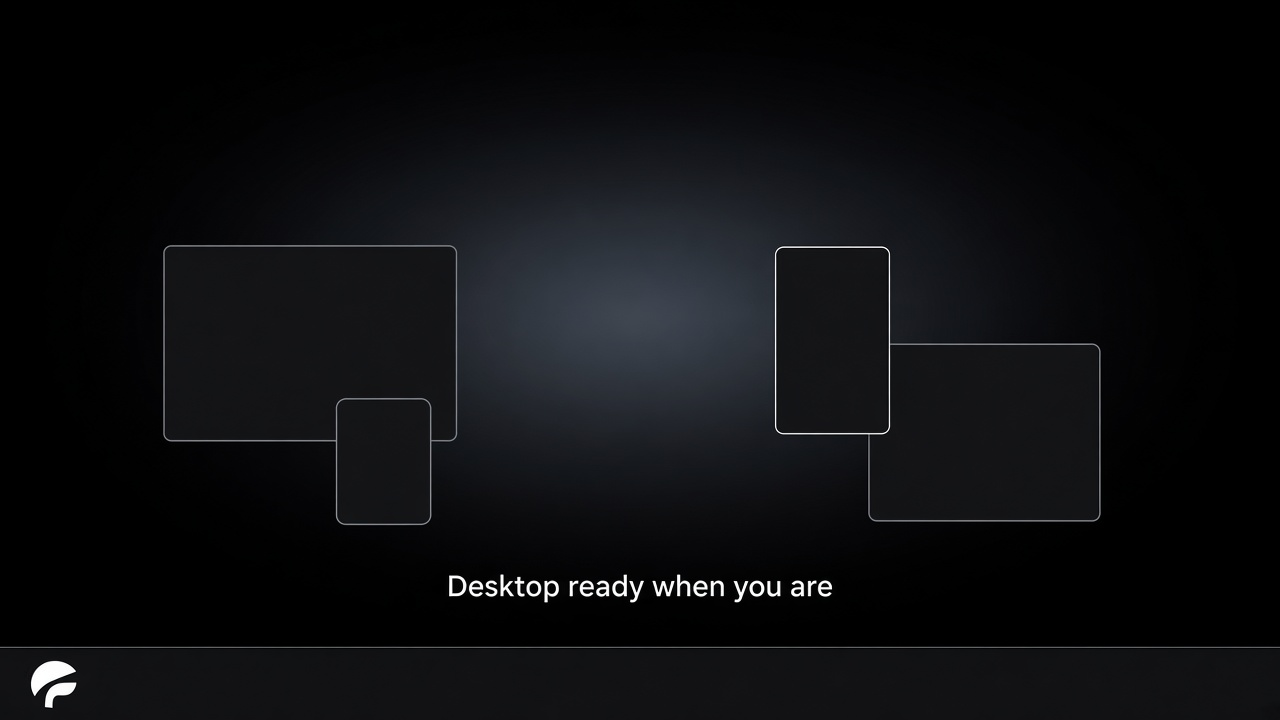
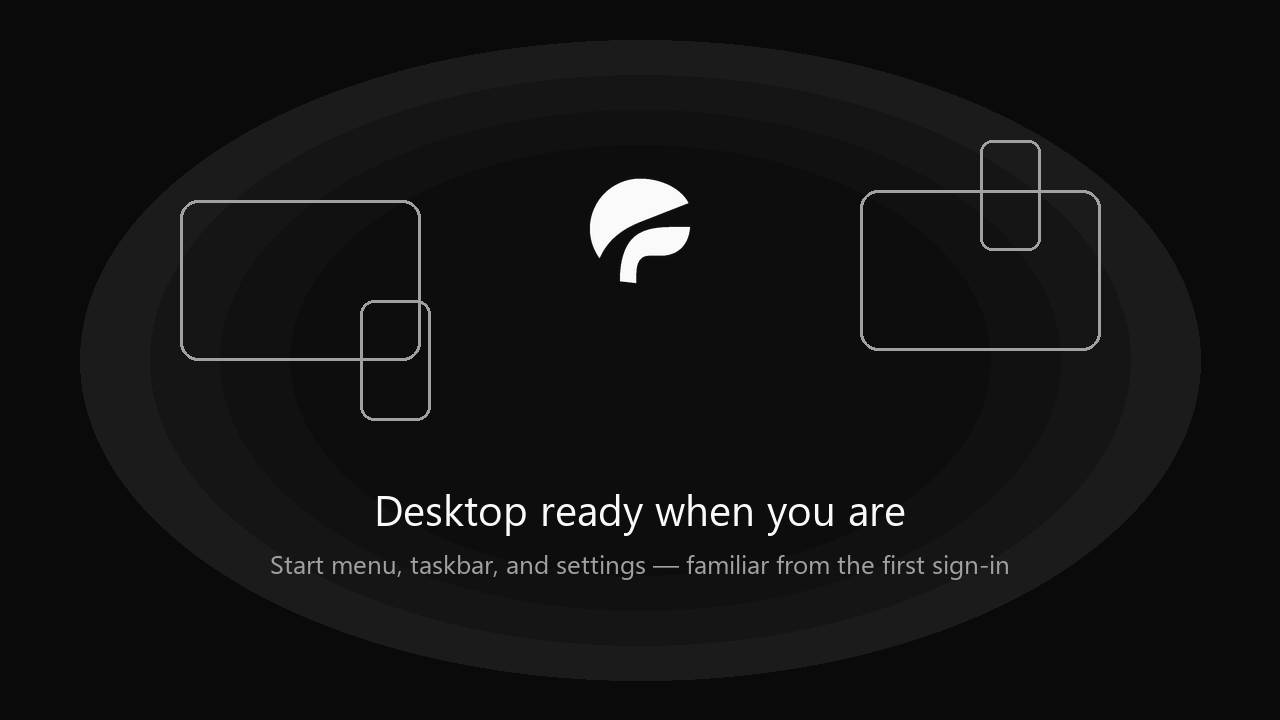
Ship fosos-theme 0.7.4 and installer 1.0.5 splash and slideshow fixes.
Use simpledrm for a real Plymouth logo splash with shutdown titles, and a plain Calamares image slideshow so Install is never blank.

diff --git a/packages/fosos-installer/usr/share/calamares/branding/fosos/show.qml b/packages/fosos-installer/usr/share/calamares/branding/fosos/show.qml
@@ -1,5 +1,5 @@
-import QtQuick 2.0;
-import calamares.slideshow 1.0;
+import QtQuick
+import calamares.slideshow 1.0
 
 Presentation
 {
@@ -7,52 +7,74 @@ Presentation
 
     function onActivate() {
         presentation.currentSlide = 0;
+        advanceTimer.restart();
     }
 
     function onLeave() {
+        advanceTimer.stop();
     }
 
     Timer {
         id: advanceTimer
-        interval: 8000
+        interval: 7000
         running: presentation.activatedInCalamares
         repeat: true
         onTriggered: presentation.goToNextSlide()
     }
 
     Slide {
+        Rectangle {
+            anchors.fill: parent
+            color: "#0a0a0a"
+        }
         Image {
             anchors.fill: parent
             source: "slide1.png"
-            fillMode: Image.PreserveAspectCrop
-            asynchronous: true
+            fillMode: Image.PreserveAspectFit
+            asynchronous: false
+            smooth: true
         }
     }
 
     Slide {
+        Rectangle {
+            anchors.fill: parent
+            color: "#0a0a0a"
+        }
         Image {
             anchors.fill: parent
             source: "slide2.png"
-            fillMode: Image.PreserveAspectCrop
-            asynchronous: true
+            fillMode: Image.PreserveAspectFit
+            asynchronous: false
+            smooth: true
         }
     }
 
     Slide {
+        Rectangle {
+            anchors.fill: parent
+            color: "#0a0a0a"
+        }
         Image {
             anchors.fill: parent
             source: "slide3.png"
-            fillMode: Image.PreserveAspectCrop
-            asynchronous: true
+            fillMode: Image.PreserveAspectFit
+            asynchronous: false
+            smooth: true
         }
     }
 
     Slide {
+        Rectangle {
+            anchors.fill: parent
+            color: "#0a0a0a"
+        }
         Image {
             anchors.fill: parent
             source: "slide4.png"
-            fillMode: Image.PreserveAspectCrop
-            asynchronous: true
+            fillMode: Image.PreserveAspectFit
+            asynchronous: false
+            smooth: true
         }
     }
 }

diff --git a/scripts/_gen_calamares_slides.py b/scripts/_gen_calamares_slides.py
@@ -1,0 +1,141 @@
+#!/usr/bin/env python3
+"""Generate FosOS Calamares branding slides and welcome logo."""
+
+from __future__ import annotations
+
+import sys
+from pathlib import Path
+
+try:
+    from PIL import Image, ImageDraw, ImageFont
+except ImportError:
+    print("requires Pillow", file=sys.stderr)
+    sys.exit(1)
+
+ROOT = Path(__file__).resolve().parents[1]
+OUT = ROOT / "packages/fosos-installer/usr/share/calamares/branding/fosos"
+MARK = ROOT / "packages/fosos-theme/usr/share/fosos/logo/fosos-dawn-aperture-512.png"
+BG = (10, 10, 10)
+FG = (250, 250, 250)
+MUTED = (161, 161, 161)
+W, H = 1280, 720
+
+
+def _font(size: int) -> ImageFont.ImageFont:
+    for name in (
+        "C:/Windows/Fonts/segoeui.ttf",
+        "C:/Windows/Fonts/arial.ttf",
+        "/usr/share/fonts/truetype/liberation/LiberationSans-Regular.ttf",
+        "/usr/share/fonts/truetype/dejavu/DejaVuSans.ttf",
+    ):
+        path = Path(name)
+        if path.is_file():
+            return ImageFont.truetype(str(path), size=size)
+    return ImageFont.load_default()
+
+
+def _mark(size: int) -> Image.Image:
+    src = Image.open(MARK).convert("RGBA")
+    pixels = src.load()
+    for y in range(src.height):
+        for x in range(src.width):
+            r, g, b, a = pixels[x, y]
+            lum = (r + g + b) // 3
+            if lum < 40:
+                pixels[x, y] = (0, 0, 0, 0)
+            else:
+                pixels[x, y] = (250, 250, 250, max(lum, a))
+    return src.resize((size, size), Image.Resampling.LANCZOS)
+
+
+def _base() -> Image.Image:
+    img = Image.new("RGB", (W, H), BG)
+    draw = ImageDraw.Draw(img)
+    # Soft centre glow
+    glow = Image.new("RGBA", (W, H), (0, 0, 0, 0))
+    gd = ImageDraw.Draw(glow)
+    for i, alpha in enumerate((18, 12, 7, 3)):
+        pad = 80 + i * 70
+        gd.ellipse((pad, pad // 2, W - pad, H - pad // 2), fill=(250, 250, 250, alpha))
+    img = Image.alpha_composite(img.convert("RGBA"), glow).convert("RGB")
+    return img
+
+
+def _save_slide(name: str, title: str, subtitle: str, doodle: str) -> None:
+    img = _base()
+    draw = ImageDraw.Draw(img)
+    mark = _mark(160)
+    mx = (W - mark.width) // 2
+    my = 150
+    img.paste(mark, (mx, my), mark)
+
+    # Simple doodle accents
+    if doodle == "devices":
+        draw.rounded_rectangle((180, 200, 420, 360), radius=18, outline=MUTED, width=3)
+        draw.rounded_rectangle((360, 300, 430, 420), radius=14, outline=MUTED, width=3)
+        draw.rounded_rectangle((860, 190, 1100, 350), radius=18, outline=MUTED, width=3)
+        draw.rounded_rectangle((980, 140, 1040, 250), radius=12, outline=MUTED, width=3)
+    elif doodle == "browser":
+        draw.rounded_rectangle((390, 120, 890, 420), radius=16, outline=MUTED, width=3)
+        draw.ellipse((410, 140, 426, 156), outline=MUTED, width=2)
+        draw.ellipse((434, 140, 450, 156), outline=MUTED, width=2)
+        draw.ellipse((458, 140, 474, 156), outline=MUTED, width=2)
+        draw.rounded_rectangle((490, 136, 820, 160), radius=8, outline=MUTED, width=2)
+    elif doodle == "keys":
+        draw.rounded_rectangle((470, 210, 810, 300), radius=12, outline=MUTED, width=3)
+        draw.ellipse((500, 330, 560, 390), outline=MUTED, width=3)
+        draw.line((560, 360, 760, 360), fill=MUTED, width=3)
+
+    title_font = _font(42)
+    sub_font = _font(26)
+    tw = draw.textlength(title, font=title_font)
+    draw.text(((W - tw) / 2, 480), title, fill=FG, font=title_font)
+    sw = draw.textlength(subtitle, font=sub_font)
+    draw.text(((W - sw) / 2, 545), subtitle, fill=MUTED, font=sub_font)
+    img.save(OUT / name, optimize=True)
+
+
+def _welcome() -> None:
+    # Sidebar / product logo: mark on dark tile (not full wallpaper).
+    size = 256
+    tile = Image.new("RGBA", (size, size), (10, 10, 10, 255))
+    mark = _mark(180)
+    tile.paste(mark, ((size - mark.width) // 2, (size - mark.height) // 2), mark)
+    tile.convert("RGB").save(OUT / "welcome.png", optimize=True)
+
+
+def main() -> None:
+    if not MARK.is_file():
+        print(f"missing {MARK}", file=sys.stderr)
+        sys.exit(1)
+    OUT.mkdir(parents=True, exist_ok=True)
+    _welcome()
+    _save_slide(
+        "slide1.png",
+        "FosOS",
+        "A calm desktop for everyday work",
+        "none",
+    )
+    _save_slide(
+        "slide2.png",
+        "Desktop ready when you are",
+        "Start menu, taskbar, and settings — familiar from the first sign-in",
+        "devices",
+    )
+    _save_slide(
+        "slide3.png",
+        "Firefox is built in",
+        "Browse privately with the browser that ships on every image",
+        "browser",
+    )
+    _save_slide(
+        "slide4.png",
+        "Your disk. Your account.",
+        "Optional encryption, then updates through the fos command",
+        "keys",
+    )
+    print(f"Wrote slides and welcome.png under {OUT}")
+
+
+if __name__ == "__main__":
+    main()

diff --git a/docs/RELEASE-NOTES.md b/docs/RELEASE-NOTES.md
@@ -1,5 +1,20 @@
 # FosOS release notes
 
+## FosOS installer 1.0.5 — Install-step slideshow images
+
+- Calamares Install page uses a plain image slideshow (`slide1`–`slide4`) so the
+  centre pane is never blank white when QML fails to load
+- Ship a Dawn Aperture `welcome.png` tile for the sidebar (not the full wallpaper)
+- Regenerated feature slides; `show.qml` kept as a dark-background fallback
+
+## FosOS theme 0.7.4 — Real graphical splash (not grey three dots)
+
+- Add `plymouth.use-simpledrm` so Plymouth keeps the FosOS logo+spinner when
+  the GPU driver is late (avoids the grey three-dot text fallback)
+- `plymouth.ignore-serial-consoles` to cut early terminal flashes
+- Shutdown / Restart titles; Liberation Sans fonts in the theme (initramfs-safe)
+- Longer DeviceTimeout and explicit Theme=fosos in plymouthd.conf via postinst
+
 ## FosOS theme 0.7.3 — Fix plymouthd.conf file conflict
 
 - Stop shipping `/etc/plymouth/plymouthd.conf` (owned by `plymouth`); it broke

diff --git a/docs/TESTING.md b/docs/TESTING.md
@@ -64,7 +64,7 @@ the soak log.
 
 | ID | Check |
 | --- | --- |
-| A01 | After firmware logo: no blue GRUB / no boot console text; Dawn Aperture Plymouth logo+spinner until greeter (Shift shows GRUB). Live ISO also shows FosOS Live menu when Shift held. Shut down / Restart show the same splash (not terminal stop text). |
+| A01 | After firmware logo: no blue GRUB / no grey three-dot fallback / no boot console text; Dawn Aperture Plymouth logo+spinner until greeter (Shift shows GRUB). Live ISO also shows FosOS Live menu when Shift held. Shut down / Restart show the same splash with Shutting down / Restarting (not terminal stop text). |
 | A02 | Live boots and autologins to **FosOS Desktop** (taskbar, Start, wallpaper) |
 | A03 | Mouse and keyboard work in the live session |
 | A04 | Sign out → greeter is two-column FosOS Sign in (not gtk-greeter / Greybird) |

diff --git a/docs/BUILDING.md b/docs/BUILDING.md
@@ -26,7 +26,9 @@ target). `--uefi-secure-boot enable` installs Microsoft-trusted `shim` and
 Debian-signed GRUB on the EFI path. Installed systems hide the GRUB menu
 (`GRUB_TIMEOUT_STYLE=hidden`) and show Dawn Aperture Plymouth until the
 greeter; hold Shift to open GRUB. Live bootappend includes `quiet splash`.
-Shut down and restart use the same Plymouth splash (not console stop text).
+Shut down and restart use the same Plymouth splash with Shutting down /
+Restarting titles (not console stop text). `plymouth.use-simpledrm` keeps
+the graphical theme when the GPU driver is late.
 After a build, `file output/FosOS-trixie-amd64.iso` should mention
 `DOS/MBR boot sector`. If Etcher says “Missing partition table”, the image
 is not hybrid — rebuild; do not Continue past that warning for laptop USB.
